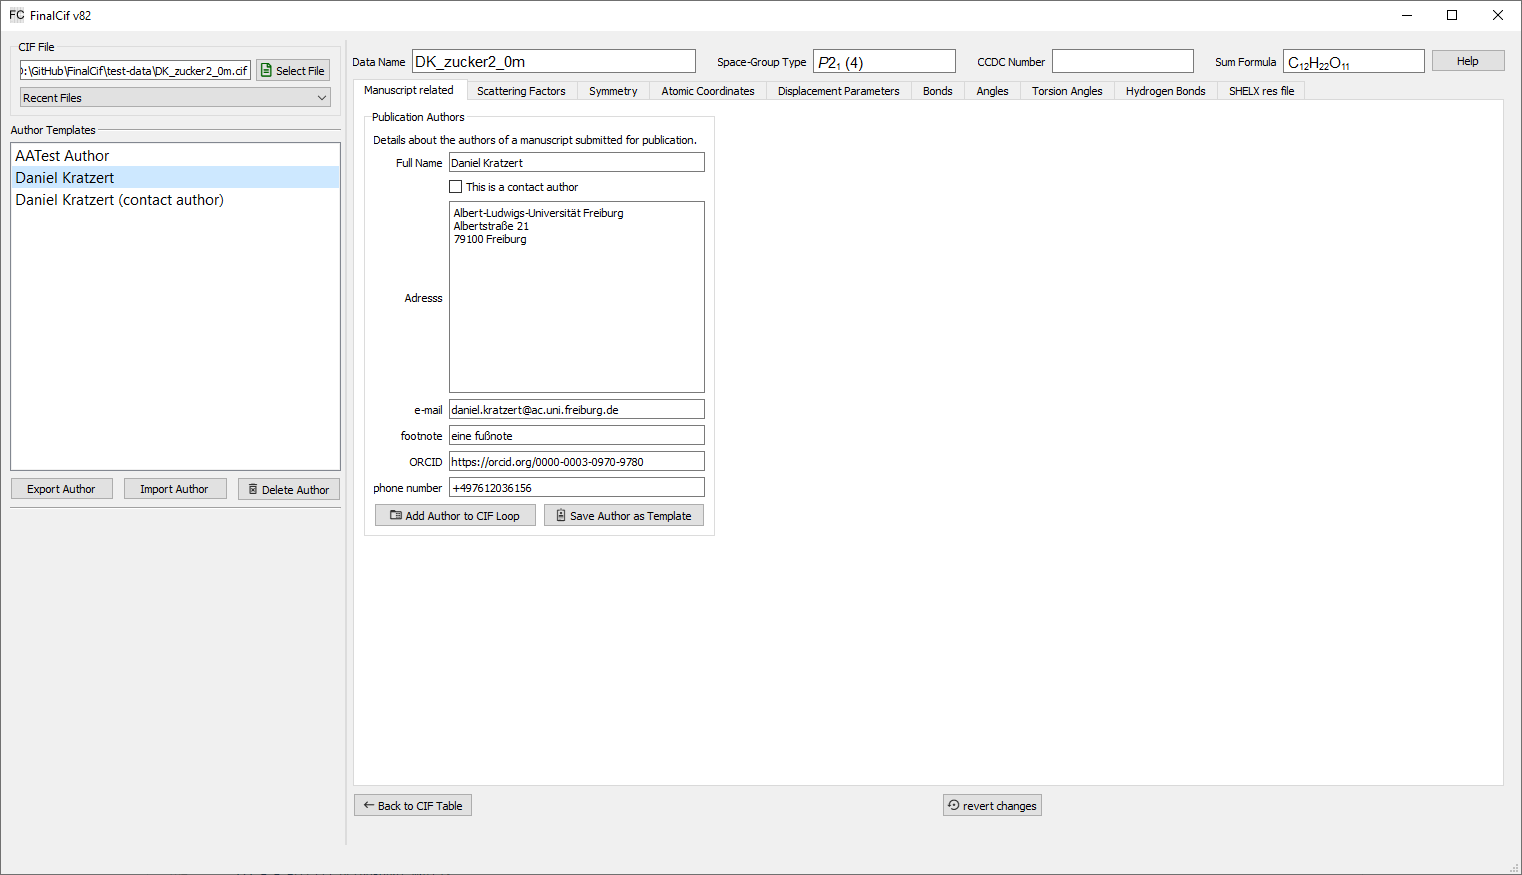
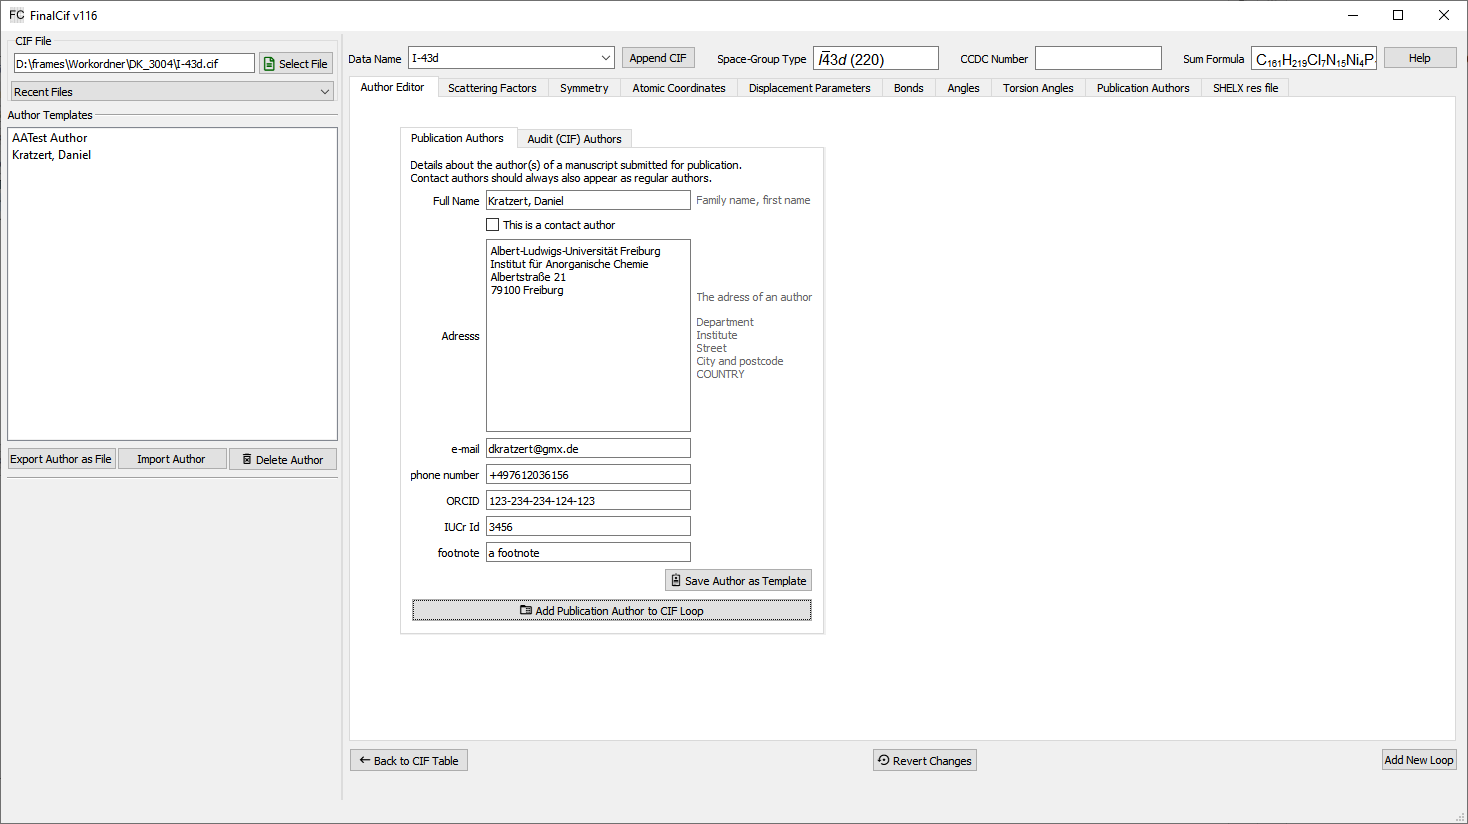
Adds documentation for author editor

diff --git a/finalcif/__init__.py b/finalcif/__init__.py
@@ -1,2 +1,2 @@
 
-VERSION = 115
+VERSION = 116

diff --git a/docs/loops.rst b/docs/loops.rst
@@ -22,13 +22,16 @@ The "revert changes" button reverts all changes done to the current loop, except
 Special Loops
 -------------
 FinalCif has a special editor for Author related loops.
-The "Manuscript Related" tab contains an input mask to add author information for publication purpose as a cif loop.
+The "Author Editor" tab contains an input mask to add author information for publication purpose as a cif loop.
 
 This is not to be confused with the "Crystallographer Details" in the "Equipment and Author Templates" section.
+There you add just a single audit_author_[...]
 
-New authors can be saved as templates for future use.
+New authors can be saved as templates for future use. The templates can be exported/imported to/from a CIF file.
 
-The button "Add Author to CIF Loop" creates a loop with the author information unless it is not already existing.
+The button "Add Author to CIF Loop" creates a loop or appends to an existing with the author information
+of the currently selected author. The author type, i.e. publ- or audit-author, is controlled by the selection
+of the corresponding tab. A template can be used for any author type.
 Further authors get appended to the list of authors with the same button. The order of authors can be changed any time
 by right-click on a table row and "Move Row up/down".
 
